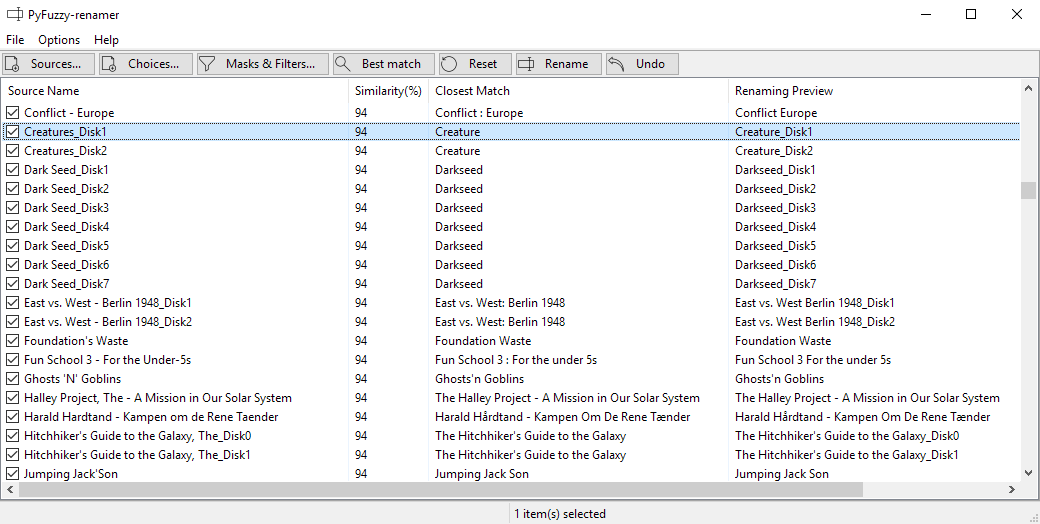
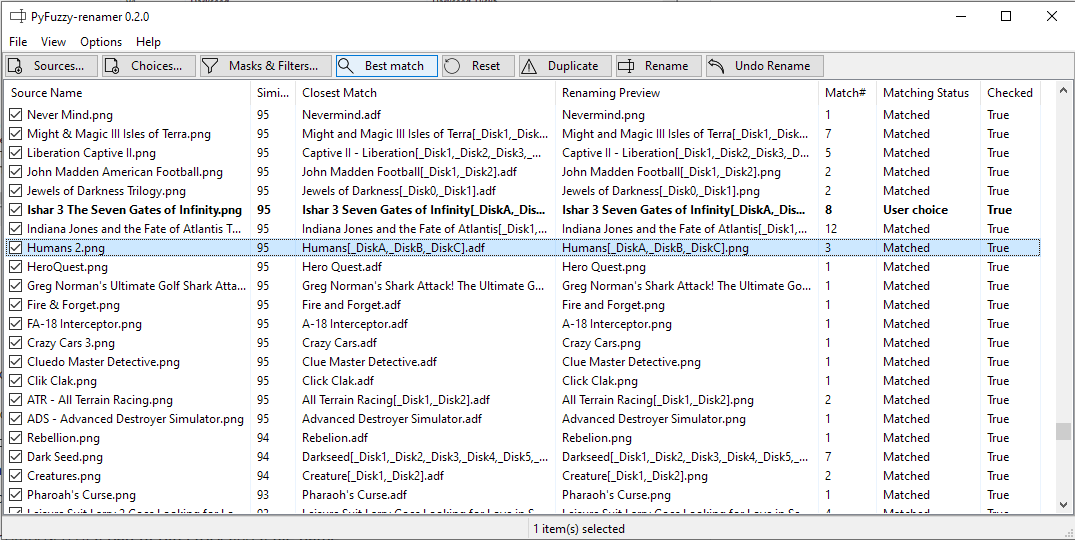
Fix duplicate list. Fix contextual list of 10 best matching to use real name and not filtered name. Fix pick choice to use real name and not filtered name. Update README and Help.

diff --git a/pyfuzzyrenamer/main_dlg.py b/pyfuzzyrenamer/main_dlg.py
@@ -634,16 +634,21 @@ class MainPanel(wx.Panel):
 
     def OnLogDuplicate(self, evt):
         with wx.lib.busy.BusyInfo("Please wait..."):
-            values = [x[config.D_PREVIEW] for x in self.list_ctrl.listdata.values()]
+            previews = [x[config.D_PREVIEW] for x in self.list_ctrl.listdata.values()]
             # [[...], [...], ...] -> [...]
-            all_values = [z for x in values for y in x for z in y]
+            all_previews = [p for previews_per_source in previews for previews_per_singlesource in previews_per_source for p in previews_per_singlesource]
             duplicates = defaultdict(list)
-            for (key, value) in zip(self.list_ctrl.listdata.keys(), values):
-                all_values_for_key = [y for x in value for y in x]
-                for v in all_values_for_key:
-                    if v and v.stem and all_values.count(v) > 1:
+            for (key, previews_per_source) in zip(self.list_ctrl.listdata.keys(), previews):
+                all_previews_for_key = [p for previews_per_singlesource in previews_per_source for p in previews_per_singlesource]
+                for v in all_previews_for_key:
+                    if v and v.stem and all_previews.count(v) > 1:
                         duplicates[v].append(key)
             duplicates_key = [duplicates[sorted_key] for sorted_key in sorted(duplicates.keys())]
+            a = []
+            for d in duplicates_key:
+                if not d in a:
+                    a.append(d)
+            duplicates_key = a
 
         duplicateTabIdx = -1
         for idx in range(0, self.bottom_notebook.GetPageCount()):
@@ -1092,7 +1097,9 @@ def getDoc():
         "<li>When strings are coming from file paths, the following terminology is used:"
         "<ul>"
         "<li>A <b>file path</b> is composed of a <b>parent directory</b> and a <b>file name</b>;<br>e.g. <b>file path</b>=<code>c:/foo/bar/setup.tar.gz</code>, <b>parent directory</b>=<code>c:/foo/bar</code>, <b>file name</b>=<code>setup.tar.gz</code></li>"
-        "<li>A <b>file name</b> is composed of a <b>stem</b> and a <b>suffix</b>;<br>e.g. <b>file name</b>=<code>setup.tar.gz</code>, <b>stem</b>=<code>setup.tar</code>, <b>suffix</b>=<code>.gz</code></li>"
+        "<li>A <b>file name</b> is composed of a <b>stem</b> and a <b>suffix</b>;<br>"
+        "e.g. <b>file name</b>=<code>setup.tar</code>, <b>stem</b>=<code>setup</code>, <b>suffix</b>=<code>.tar</code><br>"
+        "&nbsp;&nbsp;&nbsp;&nbsp;&nbsp;&nbsp;<b>file name</b>=<code>setup.tar.gz</code>, <b>stem</b>=<code>setup.tar</code>, <b>suffix</b>=<code>.gz</code></li>"
         "<li>A <b>suffix</b> can only contain alphanumeric characters after the dot, if it contains non-alphanumeric characters, the suffix is considered as part of the <b>stem</b>;<br>e.g. <b>file name</b>=<code>A.Train III</code>, <b>stem</b>=<code>A.Train III</code>, <b>suffix</b>=<code>None</code></li>"
         "</ul></li>"
         "</ul>"
@@ -1110,9 +1117,9 @@ def getDoc():
         '<p>E.g. if <b>source</b> is <code><font color="blue">c:/foo/Amaryllis.png</font></code>, and <b>most similar choice</b> is <code><font color="red">d:/bar/Amaryllidinae.jpg</font></code>, <b>renamed source</b> is <code><font color="blue">c:/foo/</font><font color="red">Amaryllidinae</font><font color="blue">.png</font></code></p>'
         "<p>If <b>masks</b> and <b>filters</b> are applied, the process applied to match and rename each <b>source</b> is the following:</p>"
         "<pre>"
-        "                                ┌─────────┐<br>"
-        '                      <font color="red">Choices</font>───┤Filtering├────<font color="red">Filtered Choices</font>────────┐<br>'
-        "                                └─────────┘                            │<br>"
+        "        ┌───────┐               ┌─────────┐<br>"
+        ' <font color="red">Choices</font>┤Masking├─<font color="red">Masked Choices</font>┤Filtering├──<font color="red">Masked&Filtered Choices</font>───┐<br>'
+        "        └───────┘               └─────────┘                            │<br>"
         "        ┌───────┐               ┌─────────┐                        ┌───┴────┐                     ┌────────┐                       ┌─────────┐<br>"
         ' <font color="blue">Source</font>─┤Masking├─<font color="blue">Masked Source</font>─┤Filtering├─<font color="blue">Masked&Filtered Source</font>─┤Matching├─<font color="red">Most Similar Choice</font>─┤Renaming├─<font color="blue">Masked</font> <font color="red">Renamed</font> <font color="blue">Source</font>─┤Unmasking├─<font color="green">Unmasked</font> <font color="red">Renamed</font> <font color="blue">Source</font><br>'
         "        └───┬───┘               └─────────┘                        └────────┘                     └────────┘                       └────┬────┘<br>"
@@ -1154,19 +1161,29 @@ def getDoc():
         "<li>Re-ordering a filter is done by dragging and dropping the filter item across the filter list.</li>"
         "</ul>"
         "<h3>Masks</h3>"
-        "<p>Sometimes, it can be interesting to ignore some leading and/or trailing parts from a <b>source</b> in the <b>matching</b> process and restore them after the <b>renaming</b> process. It is particularly important in order to enhance <b>matching</b> when <b>choices</b> don't contain these parts.</p>"
+        "<p>Sometimes, it can be interesting to ignore some leading and/or trailing parts from <b>sources</b> or <b>choices</b> in the <b>matching</b> process and restore them after the <b>renaming</b> process.</p>"
         '<p>E.g. <b>source</b> is <code><font color="blue">c:/foo/(1983-06-22) Amaryllis [Russia].png</font></code>, and we want to ignore the date <code><font color="blue">(1983-06-22)</font></code> and the country <code><font color="blue">[Russia]</font></code> during <b>matching</b> but we need to restore them when <b>renaming</b>, '
         ' then if <b>most similar choice</b> is <code><font color="red">d:/bar/Amaryllidinae.jpg</font></code>, the <b>renamed source</b> should be <code><font color="blue">c:/foo/(1983-06-22) </font><font color="red">Amaryllidinae</font><font color="blue"> [Russia].png</font></code></p>'
         "<p>To achieve this, the application uses <b>masks</b>.</p>"
-        "<p>The masks are using Python regular expression patterns. They are removed from <b>sources</b> strings before <b>filtering</b> and <b>matching</b> occur."
+        "<p>The masks are using Python regular expression patterns. They are removed from <b>sources</b> and <b>choices</b> strings before <b>filtering</b> and <b>matching</b> occur."
         "It is used to remove leading and trailing expressions (year, disk#...) before <b>matching</b> and restore them after <b>renaming</b>.</p>"
         "<p>For example, to preserve the Disk number at the end of a <b>source</b> file, a mask with the pattern <code>(\\s?disk\\d)$</code> could be used:<br>"
         "<ol>"
-        '<li><b>Masking</b>: <code><font color="blue">c:/foo/The Wiiire Disk1.rom</font></code> &rarr; <code><font color="blue">The Wiiire</font></code> + Trailing mask = <code><font color="green"> Disk1</font></code></li>'
+        '<li><b>Masking source</b>: <code><font color="blue">c:/foo/The Wiiire Disk1.rom</font></code> &rarr; <code><font color="blue">The Wiiire</font></code> + Trailing mask = <code><font color="green"> Disk1</font></code></li>'
         '<li><b>Matching</b>: <code><font color="blue">The Wiiire</font></code> &rarr; <code><font color="red">The Wire</font></code></li>'
         '<li><b>Renaming</b>: <code><font color="blue">c:/foo/The Wiiire.rom</font></code> &rarr; <code><font color="blue">c:/foo/</font><font color="red">The Wire</font><font color="blue">.rom</font></code></li>'
-        '<li><b>Unmkasking</b>: <code><font color="blue">c:/foo/The Wiiire.rom</font></code> &rarr; <code><font color="blue">c:/foo/The Wire<font color="green"> Disk1</font>.rom</font></code></li>'
+        '<li><b>Unmkasking</b>: <code><font color="blue">c:/foo/</font><font color="red">The Wire</font><font color="blue">.rom</font></code> &rarr; <code><font color="blue">c:/foo/</font><font color="red">The Wire</font> <font color="green">Disk1</font><font color="blue">.rom</font></code></li>'
         "</ol>"
+
+        "<p>It is also used to match a single <b>source</b> with multiple <b>choices</b> and generate multiple renamed files.</p>"
+        "<p>For example, masking the pattern <font face=\"verdana\">'(\\s?disk\\d)$'</font>:<br>"
+        "<ol>"
+        '<li><b>Masking choices</b>: <code><font color="red">The Wire Disk1</font></code>, <code><font color="red">The Wire Disk2</font></code> &rarr; <code><font color="red">The Wire</font></code> + Trailing masks = <code><font color="green">[Disk1, Disk2]</font></code></li>'
+        '<li><b>Matching</b>: <code><font color="blue">The Wiiire</font></code> &rarr; <code><font color="red">The Wire</font></code></li>'
+        '<li><b>Renaming</b>: <code><font color="blue">c:/foo/The Wiiire.rom</font></code> &rarr; <code><font color="blue">c:/foo/</font><font color="red">The Wire</font><font color="blue">.rom</font></code></li>'
+        '<li><b>Unmkasking</b>: <code><font color="blue">c:/foo/</font><font color="red">The Wire</font><font color="blue">.rom</font></code> &rarr; <code><font color="blue">c:/foo/</font><font color="red">The Wire</font> <font color="green">Disk1</font><font color="blue">.rom</font></code>, <code><font color="blue">c:/foo/</font><font color="red">The Wire</font> <font color="green">Disk2</font><font color="blue">.rom</font></code></li>'
+        "</ol>"
+
         "<p>Masks creation, addition, deletion, re-ordering is available from <code><b>Masks &amp; Filters</b></code> button.</p>"
         "<ul>"
         "<li>Edition of the mask name and pattern is done directly by clicking on the mask list cells</li>"

diff --git a/pyfuzzyrenamer/masksandfilters_dlg.py b/pyfuzzyrenamer/masksandfilters_dlg.py
@@ -65,7 +65,7 @@ class masksandfiltersPanel(wx.Panel):
             " These filters, using Python regular expression patterns, are applied to <b>sources</b> and <b>choices</b> strings before matching occurs."
             "It is used to help matching by cleaning strings (removing tags, ...) beforehand.<br><br>"
             "For example, replacing the pattern <font face=\"verdana\">'(\\(\\d{4}\\))'</font> by <font face=\"verdana\">''</font>:<br>"
-            '<ul><li><i><font face="verdana">The Wire <font color="red">(2002)</font></font></i> &rarr; <i><font face="verdana">The Wire</font></i></li>'
+            '<ul><li><i><font face="verdana">The Wire <b>(2002)</b></font></i> &rarr; <i><font face="verdana">The Wire</font></i></li></ul>'
         )
 
         sizer2 = wx.BoxSizer(wx.HORIZONTAL)
@@ -96,12 +96,21 @@ class masksandfiltersPanel(wx.Panel):
         html_desc_masks = wx.html.HtmlWindow(page_masks, size=(600, 200))
         html_desc_masks.SetPage(
             '<img src="memory:info.png">'
-            " These masks, using Python regular expression patterns, are removed from <b>sources</b> strings before filtering and matching occur."
+            " These masks, using Python regular expression patterns, are removed from <b>sources</b> and <b>choices</b> strings before filtering and matching occur."
             "It is used to remove leading and trailing expressions (year, disk#...) before matching and restore them at renaming.<br><br>"
             "For example, masking the pattern <font face=\"verdana\">'(\\s?disk\\d)$'</font>:<br>"
-            '<ol><li>Source&rarr;masked source: <i><font face="verdana">The Wiiire <font color="red"> Disk1</font> &rarr; The Wiiire</font></i></li>'
-            '<li>Masked source&rarr;best choice: <i><font face="verdana">The Wiiire &rarr; The Wire</font></i></li>'
-            '<li>Best choice&rarr;renamed unmasked source: <i><font face="verdana">The Wire &rarr; The Wire<font color="red"> Disk1</font></font></i></li>'
+            '<ol><li>Source&rarr;masked source: <i><font face="verdana" color="blue">The Wiiire <b>Disk1</b></font></i> &rarr; <i><font face="verdana" color="blue">The Wiiire <font face="verdana" color="green"><b>[Disk1]</b></font></font></i></li>'
+            '<li>Choice&rarr;masked choice: <i><font face="verdana" color="red">The Wire</font></i> &rarr; <i><font face="verdana" color="red">The Wire</font></i></li>'
+            '<li>Masked source&rarr;best choice: <i><font face="verdana" color="blue">The Wiiire <font face="verdana" color="green"><b>[Disk1]</b></font></font></i> &rarr; <i><font face="verdana" color="red">The Wire</font></i></li>'
+            '<li>Best choice&rarr;renamed unmasked source: <i><font face="verdana" color="red">The Wire</font></i> &rarr; <i><font face="verdana" color="blue">The Wire <b>Disk1</b></font></i></li>'
+            '<li>Source&rarr;renamed sources: <i><font face="verdana" color="blue">The Wiiire <b>Disk1</b></font></i> &rarr; <i><font face="verdana" color="blue">The Wire <b>Disk1</b></i></li></ol>'
+            "<br><br>It is also used to match a single <b>source</b> with multiple <b>choices</b> and generate multiple renamed files.<br><br>"
+            "For example, masking the pattern <font face=\"verdana\">'(\\s?disk\\d)$'</font>:<br>"
+            '<ol><li>Source&rarr;masked source: <i><font face="verdana" color="blue">The Wiiire</font></i> &rarr; <i><font face="verdana" color="blue">The Wiiire</font></i></li>'
+            '<li>Choices&rarr;masked choices: <i><font face="verdana" color="red">The Wire <b>Disk1</b>, The Wire <b>Disk2</b></font></i> &rarr; <i><font face="verdana" color="red">The Wire <font face="verdana" color="green"><b>[Disk1, Disk2]</b></font></font></i></li>'
+            '<li>Masked source&rarr;best choice: <i><font face="verdana" color="blue">The Wiiire</font></i> &rarr; <i><font face="verdana" color="red">The Wire <font face="verdana" color="green"><b>[Disk1, Disk2]</b></font></font></i></li>'
+            '<li>Best choice&rarr;renamed unmasked source: <i><font face="verdana" color="red">The Wire <font face="verdana" color="green"><b>[Disk1, Disk2]</b></font></font></i> &rarr; <i><font face="verdana" color="blue">The Wire <b>Disk1</b>, The Wire <b>Disk2</b></font></i></li>'
+            '<li>Source&rarr;renamed sources: <i><font face="verdana" color="blue">The Wiiire</font></i> &rarr; <i><font face="verdana" color="blue">The Wire <b>Disk1</b>, The Wire <b>Disk2</b></font></i></li></ol>'
         )
 
         sizer22 = wx.BoxSizer(wx.HORIZONTAL)

diff --git a/pyfuzzyrenamer/main_listctrl.py b/pyfuzzyrenamer/main_listctrl.py
@@ -27,7 +27,7 @@ def list_completer(a_list):
 class PickCandidate(wx.MiniFrame):
     def __init__(self, parent, row_id, position):
         wx.MiniFrame.__init__(self, parent, title="", pos=position, style=wx.RESIZE_BORDER)
-        self.lst_c = main_dlg.candidates["all"].keys()
+        self.lst_c = [masks.FileMasked(v[0].file, useFilter=False).masked[1] for v in main_dlg.candidates["all"].values()]
         self.text = AutocompleteTextCtrl(self, size=(400, -1), completer=list_completer(self.lst_c))
         self.text.SetMinSize((400, -1))
         self.row_id = row_id
@@ -60,8 +60,9 @@ class PickCandidate(wx.MiniFrame):
 
     def OnEnter(self, event):
         forced_match = self.text.GetLineText(0).strip()
+        item = filters.FileFiltered(Path(forced_match), alreadyStem=True)
         list_ctrl = self.GetParent()
-        list_ctrl.MenuForceMatchCb(self.row_id, forced_match, None)
+        list_ctrl.MenuForceMatchCb(self.row_id, item.filtered, None)
 
         self.Close(True)
 
@@ -221,7 +222,8 @@ class FuzzyRenamerListCtrl(wx.ListCtrl, listmix.ColumnSorterMixin):
             if matches:
                 menu.AppendSeparator()
                 for match_ in matches:
-                    mnu_match = menu.Append(wx.ID_ANY, "[%d%%] %s" % (match_["score"], match_["key"]))
+                    f_masked = masks.FileMasked(match_["files_filtered"][0].file, useFilter=False)
+                    mnu_match = menu.Append(wx.ID_ANY, "[%d%%] %s" % (match_["score"], f_masked.masked[1]))
                     self.Bind(
                         wx.EVT_MENU, partial(self.MenuForceMatchCb, row_id, match_["key"]), mnu_match,
                     )

diff --git a/pyfuzzyrenamer/bottom_notebook.py b/pyfuzzyrenamer/bottom_notebook.py
@@ -1,6 +1,6 @@
 import wx
 import wx.lib.agw.aui as aui
-from pyfuzzyrenamer import config, utils, icons
+from pyfuzzyrenamer import config, utils, icons, masks
 from pyfuzzyrenamer.config import get_config
 
 
@@ -109,12 +109,14 @@ class TabDuplicates(wx.Panel):
         row_id = 0
         self.list_ctrl.Freeze()
         for keys in duplicates_keys:
-            for preview in self.mlist.listdata[keys[0]][config.D_PREVIEW]:
-                stem = preview.stem
-                self.list_ctrl.InsertItem(row_id, stem)
-                self.listdata[row_id] = [stem, keys]
-                self.list_ctrl.SetItemData(row_id, row_id)
-                row_id += 1
+            all_previews = [y for x in self.mlist.listdata[keys[0]][config.D_PREVIEW] for y in x]
+            stem, suffix = utils.GetFileStemAndSuffix(all_previews[0])
+            if len(all_previews) > 1:
+                stem = masks.getmergedprepost(all_previews)
+            self.list_ctrl.InsertItem(row_id, stem)
+            self.listdata[row_id] = [stem, keys]
+            self.list_ctrl.SetItemData(row_id, row_id)
+            row_id += 1
         self.list_ctrl.SetColumnWidth(0, wx.LIST_AUTOSIZE)
         self.list_ctrl.Thaw()
 

diff --git a/pyfuzzyrenamer/filters.py b/pyfuzzyrenamer/filters.py
@@ -3,8 +3,11 @@ import re
 from pyfuzzyrenamer import utils
 
 
-def filter_processed(file, re_filters):
-    stem, suffix = utils.GetFileStemAndSuffix(file)
+def filter_processed(file, re_filters, alreadyStem=False):
+    if alreadyStem:
+        stem = str(file)
+    else:
+        stem, suffix = utils.GetFileStemAndSuffix(file)
     ret = stem
     # convert to lowercase.
     ret = ret.lower()
@@ -36,6 +39,6 @@ def CompileFilters(filters):
 class FileFiltered:
     filters = []
 
-    def __init__(self, file):
+    def __init__(self, file, alreadyStem=False):
         self.file = file
-        self.filtered = filter_processed(file, FileFiltered.filters)
+        self.filtered = filter_processed(file, FileFiltered.filters, alreadyStem)

diff --git a/README.md b/README.md
@@ -18,7 +18,8 @@ The following terminology is used in the application, and in this document:
         e.g. **file path**=`c:/foo/bar/setup.tar.gz`, **parent directory**=`c:/foo/bar`, **file name**=`setup.tar.gz`
     *   A **file name** is composed of a **stem** and a **suffix**;
 
-        e.g. **file name**=`setup.tar.gz`, **stem**=`setup.tar`, **suffix**=`.gz`
+        e.g. **file name**=`setup.tar`, **stem**=`setup`, **suffix**=`.tar`
+             **file name**=`setup.tar.gz`, **stem**=`setup.tar`, **suffix**=`.gz`
     * A **suffix** can only contain alphanumeric characters after the dot, if it contains non-alphanumeric characters, the **suffix** is considered as part of the **stem**
 
         e.g. **file name**=`A.Train III`, **stem**=`A.Train III`, **suffix**=`None`
@@ -45,9 +46,9 @@ E.g. if **source** is `c:/foo/Amaryllis.png`, and **most similar choice** is `d:
 If **masks** and **filters** are applied, the process applied to match and rename each **source** is the following:
 
 <pre>
-                                ┌─────────┐
-                      Choices───┤Filtering├────Filtered Choices────────┐
-                                └─────────┘                            │
+        ┌───────┐               ┌─────────┐
+ Choices┤Masking├─Masked Choices┤Filtering├──Masked&Filtered Choices───┐
+        └───────┘               └─────────┘                            │
         ┌───────┐               ┌─────────┐                        ┌───┴────┐                     ┌────────┐                       ┌─────────┐
  Source─┤Masking├─Masked Source─┤Filtering├─Masked&Filtered Source─┤Matching├─Most Similar Choice─┤Renaming├─Masked Renamed Source─┤Unmasking├─Unmasked Renamed Source
         └───┬───┘               └─────────┘                        └────────┘                     └────────┘                       └────┬────┘
@@ -103,20 +104,29 @@ Filters creation, addition, deletion, re-ordering is available from **`Masks & F
 
 ### Masks
 
-Sometimes, it can be interesting to ignore some leading and/or trailing parts from a **source** in the **matching** process and restore them after the **renaming** process. It is particularly important in order to enhance **matching** when **choices** don't contain these parts.
+Sometimes, it can be interesting to ignore some leading and/or trailing parts from **sources** or **choices** in the **matching** process and restore them after the **renaming** process.
 
 E.g. **source** is `c:/foo/(1983-06-22) Amaryllis [Russia].png`, and we want to ignore the date `(1983-06-22)` and the country `[Russia]` during **matching** but we need to restore them when **renaming**, then if **most similar choice** is `d:/bar/Amaryllidinae.jpg`, the **renamed source** should be `c:/foo/(1983-06-22) Amaryllidinae [Russia].png`
 
 To achieve this, the application uses **masks**.
 
-The masks are using Python regular expression patterns. They are removed from **sources** strings before **filtering** and **matching** occur. It is used to remove leading and trailing expressions (year, disk#...) before **matching** and restore them after **renaming**.
+The masks are using Python regular expression patterns. They are removed from **sources** and **choices** strings before **filtering** and **matching** occur. It is used to remove leading and trailing expressions (year, disk#...) before **matching** and restore them after **renaming**.
 
 For example, to preserve the Disk number at the end of a **source** file, a mask with the pattern `(\s?disk\d)$` could be used:
 
-1.  **Masking**: `c:/foo/The Wiiire Disk1.rom` ⭢ `The Wiiire` + Trailing mask = `Disk1`
+1.  **Masking source**: `c:/foo/The Wiiire Disk1.rom` ⭢ `The Wiiire` + Trailing mask = `Disk1`
 2.  **Matching**: `The Wiiire` ⭢ `The Wire`
 3.  **Renaming**: `c:/foo/The Wiiire.rom` ⭢ `c:/foo/The Wire.rom`
 4.  **Unmkasking**: `c:/foo/The Wiiire.rom` ⭢ `c:/foo/The Wire Disk1.rom`
+
+It is also used to match a single **source** with multiple **choices** and generate multiple renamed files.
+
+For example, masking the pattern `(\s?disk\d)$`:
+
+1.  **Masking choices**: `The Wire Disk1`, `The Wire Disk2` ⭢ `The Wire` + Trailing masks = `[Disk1, Disk2]`
+2.  **Matching**: `The Wiiire` ⭢ `The Wire`
+3.  **Renaming**: `c:/foo/The Wiiire.rom` ⭢ `c:/foo/The Wire.rom`
+4.  **Unmkasking**: `c:/foo/The Wire.rom` ⭢ `c:/foo/The Wire Disk1.rom`, `c:/foo/The Wire Disk2.rom`
 
 Masks creation, addition, deletion, re-ordering is available from **`Masks & Filters`** button.
 
